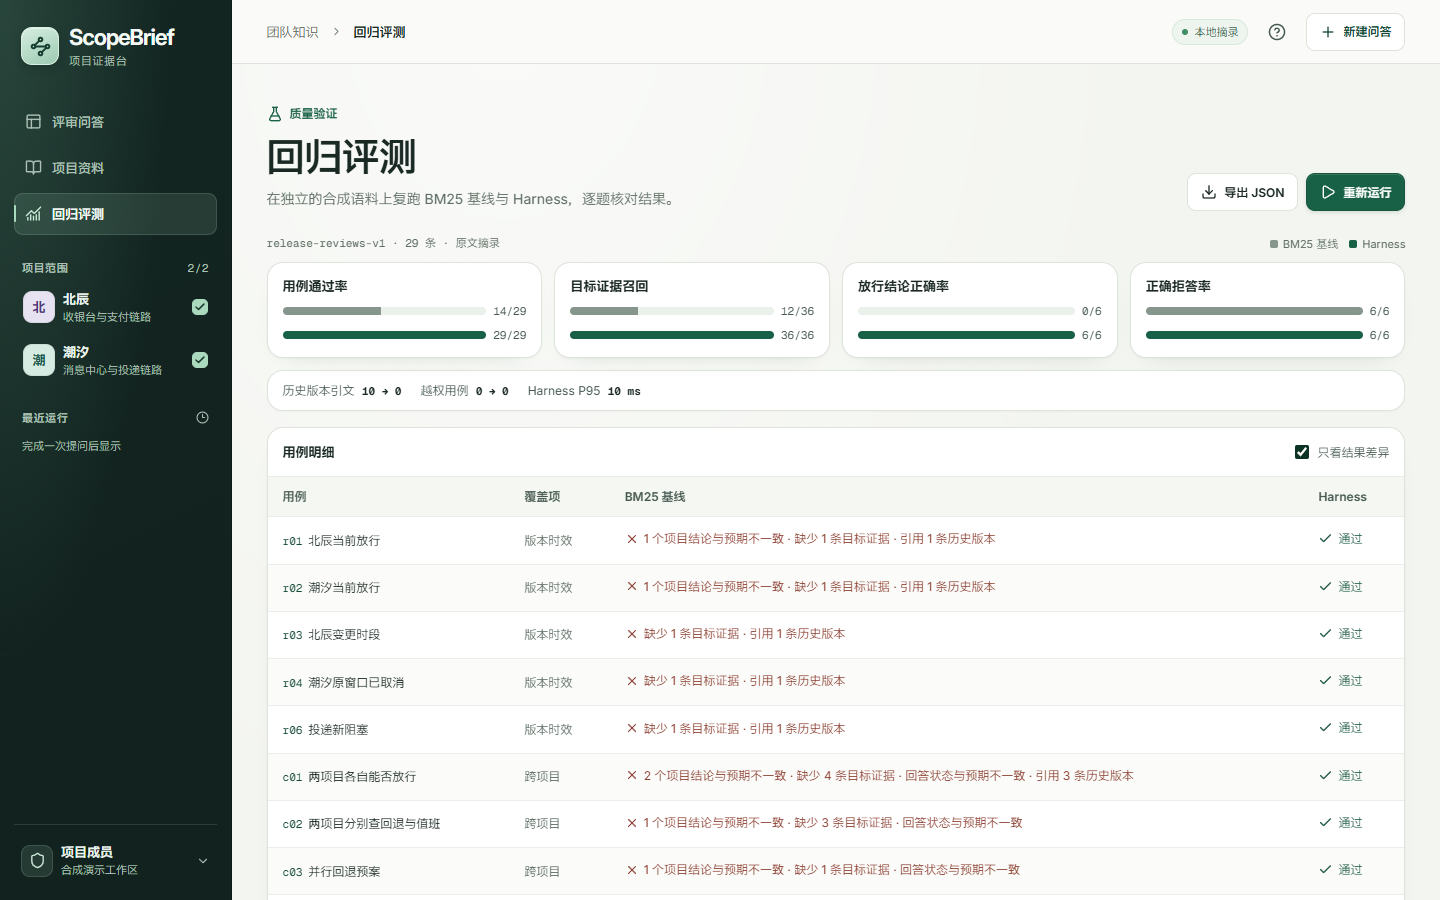
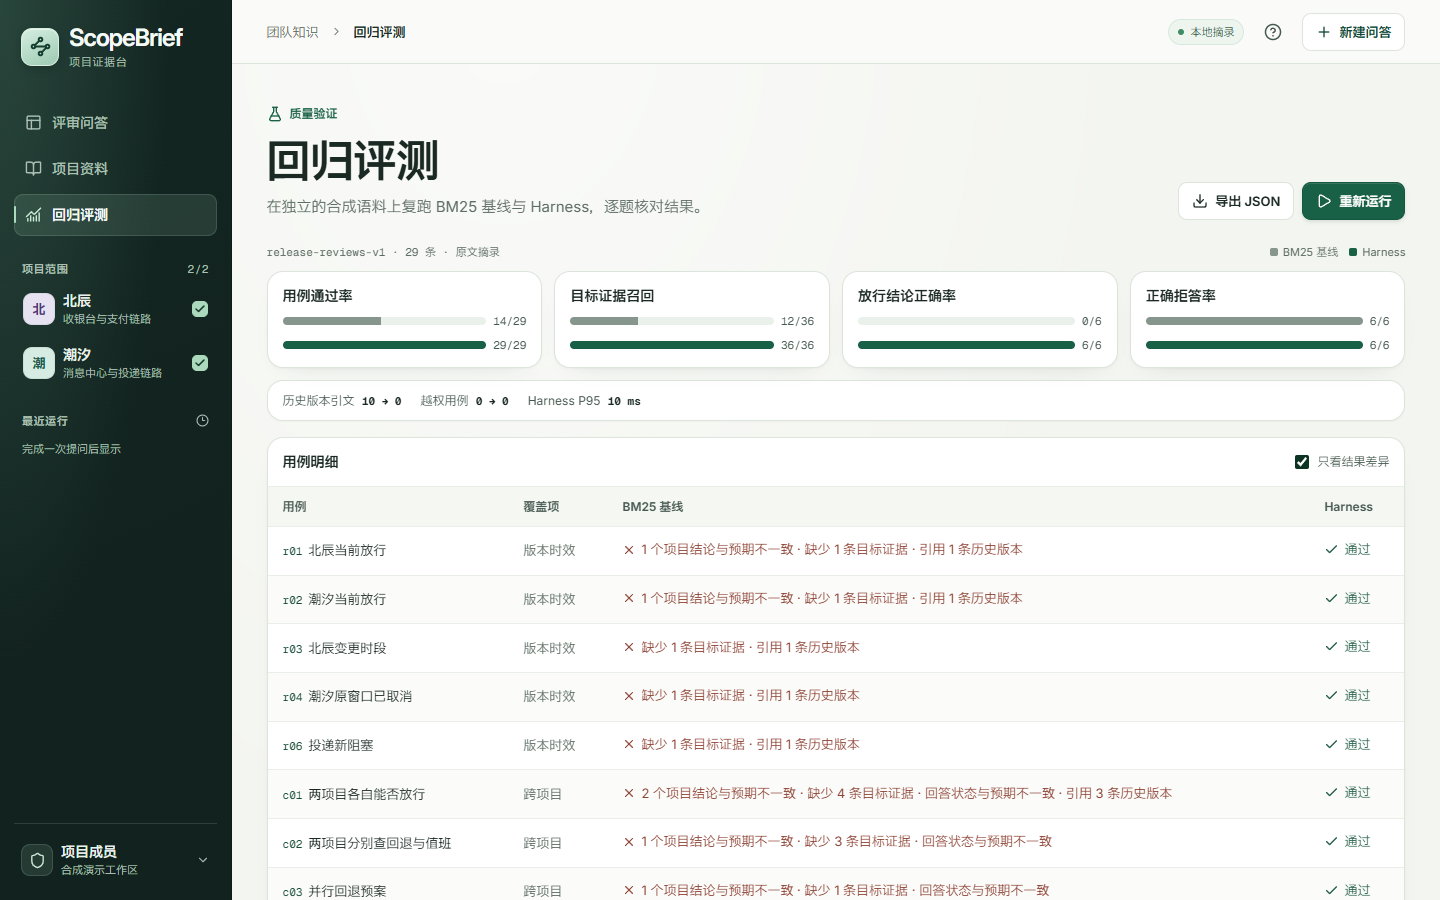
Make workbench typography hierarchy easier to scan

diff --git a/frontend/src/style.css b/frontend/src/style.css
@@ -12,6 +12,10 @@
   --font-cjk: "Frex Sans GB UI", "Noto Sans SC Variable", "PingFang SC", "Microsoft YaHei UI";
   --font-ui: "Inter Variable", var(--font-cjk), system-ui, sans-serif;
   --mono: "Geist Mono Variable", "Cascadia Mono", Consolas, var(--font-cjk), monospace;
+  --text-caption: .75rem;
+  --text-control: .8125rem;
+  --text-body: .9375rem;
+  --leading-body: 1.72;
   font-family: var(--font-ui);
   color: #1b2924;
   background: #f3f5f0;
@@ -106,7 +110,7 @@ h1, h2, h3, p { margin: 0; }
   background: linear-gradient(155deg, #d5eee0, #9dcab2);
   box-shadow: inset 0 1px 0 #fff8, 0 3px 10px #061e1550;
 }
-.brand strong { display: block; color: #f4faf6; font-size: 22px; font-weight: 650; line-height: 1.12; letter-spacing: -.05em; }
+.brand strong { display: block; color: #f4faf6; font-size: 1.5rem; font-weight: 630; line-height: 1.08; letter-spacing: -.05em; }
 .brand small { display: block; margin-top: 4px; color: var(--side-muted); font-size: 11px; letter-spacing: .06em; }
 .primary-nav { display: grid; gap: 4px; }
 .nav-link, .history-item {
@@ -120,10 +124,9 @@ h1, h2, h3, p { margin: 0; }
   padding: 10px;
   text-align: left;
   color: var(--side-muted);
-  font-size: 13px;
   transition: color var(--quick) var(--ease), background-color var(--quick) var(--ease), border-color var(--quick) var(--ease);
 }
-.nav-link { position: relative; min-height: 42px; font-weight: 550; white-space: nowrap; }
+.nav-link { position: relative; min-height: 42px; font-size: .875rem; font-weight: 520; white-space: nowrap; }
 .nav-link:hover, .history-item:hover, .project-check:hover, .account-switch summary:hover {
   background-color: var(--side-hover);
   color: var(--side-text);
@@ -194,7 +197,7 @@ h1, h2, h3, p { margin: 0; }
   text-overflow: ellipsis;
   white-space: nowrap;
 }
-.project-label strong, .account-label strong { font-size: 13px; }
+.project-label strong, .account-label strong { font-size: .875rem; font-weight: 600; }
 .project-label small, .account-label small, .history-copy time {
   display: block;
   margin-top: 3px;
@@ -321,7 +324,7 @@ h1, h2, h3, p { margin: 0; }
   border-radius: 9px;
   background: var(--paper);
   color: var(--ink);
-  font-size: 12px;
+  font-size: var(--text-control);
   font-weight: 620;
   white-space: nowrap;
   transition: background-color var(--quick) var(--ease), border-color var(--quick) var(--ease),
@@ -370,23 +373,24 @@ h1, h2, h3, p { margin: 0; }
 .hero-label, .run-label { display: inline-flex; align-items: center; gap: 7px; color: var(--accent); font-size: 12px; font-weight: 620; }
 .hero-label { color: #b9e3cc; letter-spacing: .07em; }
 .hero h1 {
-  margin: 12px 0 12px;
+  margin: 12px 0 14px;
   color: #f5faf6;
-  font-size: clamp(30px, 3.13vw, 48px);
-  font-weight: 600;
-  line-height: 1.2;
+  font-size: clamp(2rem, 3.65vw, 3.5rem);
+  font-weight: 630;
+  line-height: 1.14;
   letter-spacing: -.02em;
 }
-.hero p { color: #ccddd4; font-size: 14px; line-height: 1.75; }
+.hero p { color: #ccddd4; font-size: var(--text-body); line-height: var(--leading-body); }
 .run-heading { padding: 7px 0 0; animation: appear 230ms var(--ease) both; }
 .run-heading h1, .page-heading h1 {
-  margin: 7px 0 12px;
-  font-size: clamp(25px, 2.65vw, 40px);
-  font-weight: 600;
-  line-height: 1.28;
+  margin: 9px 0 14px;
+  font-size: clamp(1.75rem, 3.05vw, 2.75rem);
+  font-weight: 640;
+  line-height: 1.22;
   letter-spacing: -.019em;
   overflow-wrap: anywhere;
 }
+.run-heading h1 { word-break: keep-all; }
 .run-meta {
   display: flex;
   align-items: center;
@@ -411,11 +415,13 @@ h1, h2, h3, p { margin: 0; }
   border-bottom: 1px solid var(--rule);
 }
 .finding-name { display: flex; gap: 9px; align-items: center; min-width: 0; }
-.finding h2 { font-size: 15px; overflow-wrap: anywhere; }
+.finding h2 { font-size: 1.125rem; font-weight: 640; overflow-wrap: anywhere; }
 .finding-quote { padding: 14px 17px; }
 .finding-quote + .finding-quote { border-top: 1px solid var(--rule); }
-.quote-heading { margin-bottom: 5px; color: var(--accent-strong); font-size: 12px; font-weight: 620; }
-.finding-quote p, .missing-topics, .conflict-message { font-size: 13px; line-height: 1.82; overflow-wrap: anywhere; }
+.quote-heading { margin-bottom: 7px; color: var(--accent-strong); font-size: var(--text-control); font-weight: 620; }
+.finding-quote p { font-size: var(--text-body); }
+.missing-topics, .conflict-message { font-size: var(--text-control); }
+.finding-quote p, .missing-topics, .conflict-message { line-height: var(--leading-body); overflow-wrap: anywhere; }
 .missing-topics, .conflict-message { padding: 10px 17px; color: #754819; background: #fdf6e9; }
 .missing-topics { border-radius: 0 0 calc(var(--radius) - 1px) calc(var(--radius) - 1px); }
 .abstention, .progress-state {
@@ -428,7 +434,7 @@ h1, h2, h3, p { margin: 0; }
 }
 .abstention { border-color: #ecddbf; background: #fffdf8; }
 .abstention svg { color: #825621; }
-.abstention p { margin-top: 3px; color: var(--muted); font-size: 12px; }
+.abstention p { margin-top: 4px; color: var(--muted); font-size: var(--text-control); }
 .progress-state { color: var(--accent-strong); }
 .progress-state > span { flex: 1; }
 .no-project { display: grid; justify-items: start; gap: 8px; padding: 18px; font-size: 13px; }
@@ -439,7 +445,7 @@ h1, h2, h3, p { margin: 0; }
   transition: border-color var(--quick) var(--ease), box-shadow var(--quick) var(--ease);
 }
 .composer:focus-within { border-color: #89b89d; box-shadow: 0 0 0 3px #8ebca02e, var(--surface-shadow); }
-.composer label { display: inline-block; margin-bottom: 8px; font-size: 15px; font-weight: 650; }
+.composer label { display: inline-block; margin-bottom: 10px; font-size: 1.125rem; font-weight: 630; line-height: 1.4; }
 .composer textarea {
   display: block;
   width: 100%;
@@ -449,7 +455,7 @@ h1, h2, h3, p { margin: 0; }
   border: 1px solid var(--rule);
   border-radius: 10px;
   background: #f8faf7;
-  font-size: 14px;
+  font-size: 1rem;
   line-height: 1.6;
   transition: background-color var(--quick) var(--ease), border-color var(--quick) var(--ease);
 }
@@ -471,7 +477,7 @@ h1, h2, h3, p { margin: 0; }
   font: 11px/1.15 var(--mono);
   text-align: center;
 }
-.presets h2 { margin: 0 0 10px 1px; font-size: 13px; }
+.presets h2 { margin: 0 0 10px 1px; font-size: var(--text-body); font-weight: 630; }
 .preset-grid { display: grid; grid-template-columns: repeat(2, minmax(0, 1fr)); gap: 10px; }
 .preset {
   display: flex;
@@ -498,8 +504,8 @@ h1, h2, h3, p { margin: 0; }
   color: var(--accent);
 }
 .preset-copy { flex: 1; min-width: 0; }
-.preset-copy strong { display: block; font-size: 13px; }
-.preset-copy small { display: block; margin-top: 3px; color: var(--muted); font-size: 11px; line-height: 1.5; }
+.preset-copy strong { display: block; font-size: .875rem; font-weight: 620; }
+.preset-copy small { display: block; margin-top: 4px; color: var(--muted); font-size: var(--text-caption); line-height: 1.55; }
 .preset-arrow { color: #5d786a; transition: transform var(--quick) var(--ease), color var(--quick) var(--ease); }
 .preset:hover:not(:disabled) .preset-arrow { color: var(--accent); transform: translate(2px, -2px); }
 
@@ -527,7 +533,7 @@ h1, h2, h3, p { margin: 0; }
   color: var(--accent);
   background: #edf5ee;
 }
-.evidence-heading h2 { font-size: 14px; font-weight: 650; }
+.evidence-heading h2 { font-size: 1rem; font-weight: 630; }
 .panel-tabs, .section-nav {
   display: flex;
   gap: 3px;
@@ -582,8 +588,8 @@ h1, h2, h3, p { margin: 0; }
   color: var(--accent);
   background: #eff6ef;
 }
-.blank-state strong { font-size: 13px; }
-.blank-state p { max-width: 350px; color: var(--muted); font-size: 12px; line-height: 1.65; }
+.blank-state strong { font-size: .875rem; font-weight: 620; }
+.blank-state p { max-width: 350px; color: var(--muted); font-size: var(--text-caption); line-height: 1.65; }
 .source-list { display: grid; gap: 7px; padding-top: 12px; }
 .source-card {
   display: grid;
@@ -600,8 +606,9 @@ h1, h2, h3, p { margin: 0; }
 }
 .source-card:hover { background: #f1f7f2; border-color: var(--accent-line); }
 .source-card > svg { color: #5d786a; margin-top: 3px; }
-.source-card strong { display: block; font-size: 12px; line-height: 1.45; overflow-wrap: anywhere; }
-.source-card small { display: block; margin-top: 4px; color: var(--muted); font-size: 11px; line-height: 1.4; overflow-wrap: anywhere; }
+.source-card strong { display: block; font-size: var(--text-control); font-weight: 630; line-height: 1.45; overflow-wrap: anywhere; }
+.source-card small { display: block; margin-top: 4px; color: var(--muted); font-size: var(--text-caption); line-height: 1.4; overflow-wrap: anywhere; }
+.source-card .code-label { font-size: 11px; }
 .source-number {
   display: inline-grid;
   vertical-align: baseline;
@@ -641,7 +648,7 @@ button.source-number:hover { border-color: var(--accent); color: white; backgrou
 
 .page-heading { display: flex; justify-content: space-between; align-items: flex-end; gap: 17px; margin: 7px 0 24px; }
 .page-heading h1 { margin-bottom: 6px; }
-.page-heading p { color: var(--muted); font-size: 14px; line-height: 1.7; }
+.page-heading p { color: var(--muted); font-size: var(--text-body); line-height: var(--leading-body); }
 .page-actions { display: flex; flex-wrap: wrap; align-items: center; gap: 8px; }
 .notice { padding: 10px 13px; margin-bottom: 13px; border: 1px solid transparent; border-radius: 10px; font-size: 13px; line-height: 1.65; }
 .notice.error { border-color: #f2d5cb; background: #fff0eb; color: #8d2a24; }
@@ -668,13 +675,13 @@ button.source-number:hover { border-color: var(--accent); color: white; backgrou
 input[type=checkbox] { width: 14px; height: 14px; accent-color: var(--accent); }
 .table-scroll { overflow-x: auto; border-radius: 0 0 calc(var(--radius) - 1px) calc(var(--radius) - 1px); }
 table { width: 100%; border-collapse: collapse; text-align: left; }
-th, td { padding: 12px 15px; border-top: 1px solid var(--rule); font-size: 12px; }
-th { color: var(--label); background: #f5f7f3; white-space: nowrap; font-weight: 620; }
-td { line-height: 1.6; }
+th, td { padding: 12px 15px; border-top: 1px solid var(--rule); }
+th { color: var(--label); background: #f5f7f3; white-space: nowrap; font-size: var(--text-caption); font-weight: 620; }
+td { font-size: var(--text-control); line-height: 1.6; }
 tr:nth-child(even) td { background: #fbfcfa; }
 tbody tr:hover td { background: #f3f7f3; }
 .file-link, .text-button { padding: 2px; border: 0; color: var(--accent-strong); font-size: 12px; font-weight: 620; text-align: left; }
-.file-link { display: inline-flex; align-items: center; gap: 7px; overflow-wrap: anywhere; }
+.file-link { display: inline-flex; align-items: center; gap: 7px; font-size: inherit; overflow-wrap: anywhere; }
 .file-link:hover, .text-button:hover { text-decoration: underline; text-underline-offset: 3px; }
 .row-actions { display: flex; align-items: center; gap: 8px; white-space: nowrap; }
 .row-actions .icon-button { width: 30px; height: 30px; }
@@ -719,7 +726,7 @@ tbody tr:hover td { background: #f3f7f3; }
 .dialog-loading { display: flex; align-items: center; gap: 9px; padding: 21px; color: var(--muted); font-size: 13px; }
 .document-title { padding: 2px 0 16px; }
 .document-title .chip { margin-right: 6px; }
-.document-title h3 { margin: 9px 0 6px; font-size: 23px; font-weight: 650; line-height: 1.35; overflow-wrap: anywhere; }
+.document-title h3 { margin: 9px 0 6px; font-size: 1.625rem; font-weight: 640; line-height: 1.3; overflow-wrap: anywhere; }
 .document-title p { color: var(--muted); font-size: 12px; line-height: 1.65; overflow-wrap: anywhere; }
 .source-text { padding: 8px 0; border: 1px solid var(--line); border-radius: 10px; background: #f8faf7; }
 .source-line {
@@ -732,7 +739,7 @@ tbody tr:hover td { background: #f3f7f3; }
   scroll-margin-block: 66px 12px;
 }
 .source-line span { color: var(--muted); text-align: right; font: 11px var(--mono); }
-.source-line code { font: 12px/1.72 var(--mono); white-space: pre-wrap; overflow-wrap: anywhere; }
+.source-line code { font: var(--text-control)/var(--leading-body) var(--mono); white-space: pre-wrap; overflow-wrap: anywhere; }
 .source-line.highlighted { border-left-color: #378162; background: #e0f0e4; }
 .publish-form, .login-form { display: grid; gap: 13px; }
 .publish-form > label, .publish-fields > label, .login-form label { display: grid; gap: 5px; min-width: 0; font-size: 12px; font-weight: 650; }
@@ -760,7 +767,7 @@ tbody tr:hover td { background: #f3f7f3; }
 .chart-legend span:last-child i { background: var(--accent); }
 .metrics-grid { display: grid; grid-template-columns: repeat(4, minmax(0, 1fr)); gap: 12px; }
 .metric { min-width: 0; padding: 15px; }
-.metric h2, .case-card h2 { font-size: 13px; }
+.metric h2, .case-card h2 { font-size: .875rem; font-weight: 620; }
 .meter-row { display: flex; justify-content: space-between; align-items: center; gap: 7px; margin-top: 10px; color: var(--label); font: 11px var(--mono); }
 .meter-row progress { flex: 1; width: 12px; min-width: 12px; height: 8px; overflow: hidden; border: 0; border-radius: 6px; accent-color: #87968c; }
 .meter-row.harness progress { accent-color: var(--accent); }
@@ -781,7 +788,7 @@ tbody tr:hover td { background: #f3f7f3; }
     #10231f url("./assets/evidence-hero.webp") center / cover no-repeat;
 }
 .login-form { width: min(350px, calc(100vw - 32px)); padding: 27px; color: var(--ink); box-shadow: 0 15px 60px #0d20197a; animation: appear 240ms var(--ease) both; }
-.login-form h1 { margin-bottom: 3px; font-size: 25px; font-weight: 600; line-height: 1.28; letter-spacing: -.025em; }
+.login-form h1 { margin-bottom: 3px; font-size: 1.75rem; font-weight: 630; line-height: 1.22; letter-spacing: -.025em; }
 .login-form :is(input, select) { min-height: 40px; font-size: 14px; }
 .team-login { width: min(398px, calc(100vw - 32px)); padding: 28px; }
 .login-toggle { justify-self: center; padding: 5px; }
@@ -815,7 +822,7 @@ tbody tr:hover td { background: #f3f7f3; }
 .feedback-form textarea { width: 100%; resize: vertical; padding: 8px; border: 1px solid var(--line); border-radius: 8px; }
 .feedback-note { white-space: pre-wrap; overflow-wrap: anywhere; }
 .workspace-stats { margin-bottom: 16px; }
-.workspace-stats strong { display: block; margin-top: 8px; color: var(--accent-strong); font-size: 27px; font-weight: 650; font-variant-numeric: tabular-nums; }
+.workspace-stats strong { display: block; margin-top: 8px; color: var(--accent-strong); font-size: 1.875rem; font-weight: 630; font-variant-numeric: tabular-nums; }
 .choice-list { display: flex; flex-wrap: wrap; gap: 7px; min-width: 0; padding: 8px 10px; border: 1px solid var(--line); border-radius: 9px; }
 .choice-list legend { padding-inline: 4px; font-size: 12px; font-weight: 650; }
 .source-choices { max-height: 180px; overflow: auto; }
@@ -835,6 +842,7 @@ tbody tr:hover td { background: #f3f7f3; }
 @media (max-width: 1180px) {
   .app-shell { --side-width: 207px; --evidence-width: 284px; }
   .hero { min-height: 236px; background-position: center, 64% center; }
+  .run-heading h1 { word-break: normal; }
   .finding-grid.multiple { grid-template-columns: repeat(auto-fit, minmax(min(218px, 100%), 1fr)); }
   .evidence-panel { padding: 13px; }
 }
@@ -878,7 +886,7 @@ tbody tr:hover td { background: #f3f7f3; }
   }
   .brand { grid-area: 1 / 1; margin: 0; padding: 0; }
   .brand-mark { width: 34px; height: 34px; border-radius: 9px; }
-  .brand strong { font-size: 19px; }
+  .brand strong { font-size: 1.25rem; }
   .account { grid-area: 1 / 2; align-self: center; min-width: 0; padding: 0; margin: 0; border: 0; }
   .account-switch summary { min-height: 38px; padding: 4px; }
   .account-avatar { width: 28px; height: 28px; }
@@ -913,15 +921,19 @@ tbody tr:hover td { background: #f3f7f3; }
     background-position: center, 48% center;
   }
   .hero-copy { max-width: 300px; }
-  .hero h1 { margin-block: 9px; font-size: clamp(27px, 7.2vw, 34px); }
-  .hero p { max-width: 23ch; font-size: 13px; line-height: 1.65; }
+  .hero h1 { margin-block: 9px; font-size: clamp(1.8125rem, 8.2vw, 2.25rem); }
+  .hero p { max-width: 24ch; font-size: .875rem; line-height: 1.62; }
+  .run-heading h1 { font-size: clamp(1.625rem, 7vw, 2rem); }
   .hero-break, .shortcut { display: none; }
   .composer { padding: 14px 14px 12px; }
-  .composer textarea { min-height: 68px; font-size: 16px; }
+  .composer textarea { min-height: 68px; }
   .button.primary { min-height: 39px; }
-  .preset { align-items: flex-start; gap: 7px; min-height: 69px; padding: 9px; }
+  .preset { display: grid; grid-template-columns: auto minmax(0, 1fr); align-content: start; gap: 5px 7px; min-height: 69px; padding: 9px; }
   .preset-icon { width: 27px; height: 27px; border-radius: 7px; }
   .preset-icon svg { width: 15px; }
+  .preset-copy { display: contents; }
+  .preset-copy strong { align-self: center; }
+  .preset-copy small { grid-column: 1 / -1; margin-top: 0; }
   .preset-arrow { display: none; }
   .evidence-panel { margin-bottom: 16px; }
   .source-list { grid-template-columns: 1fr; }
